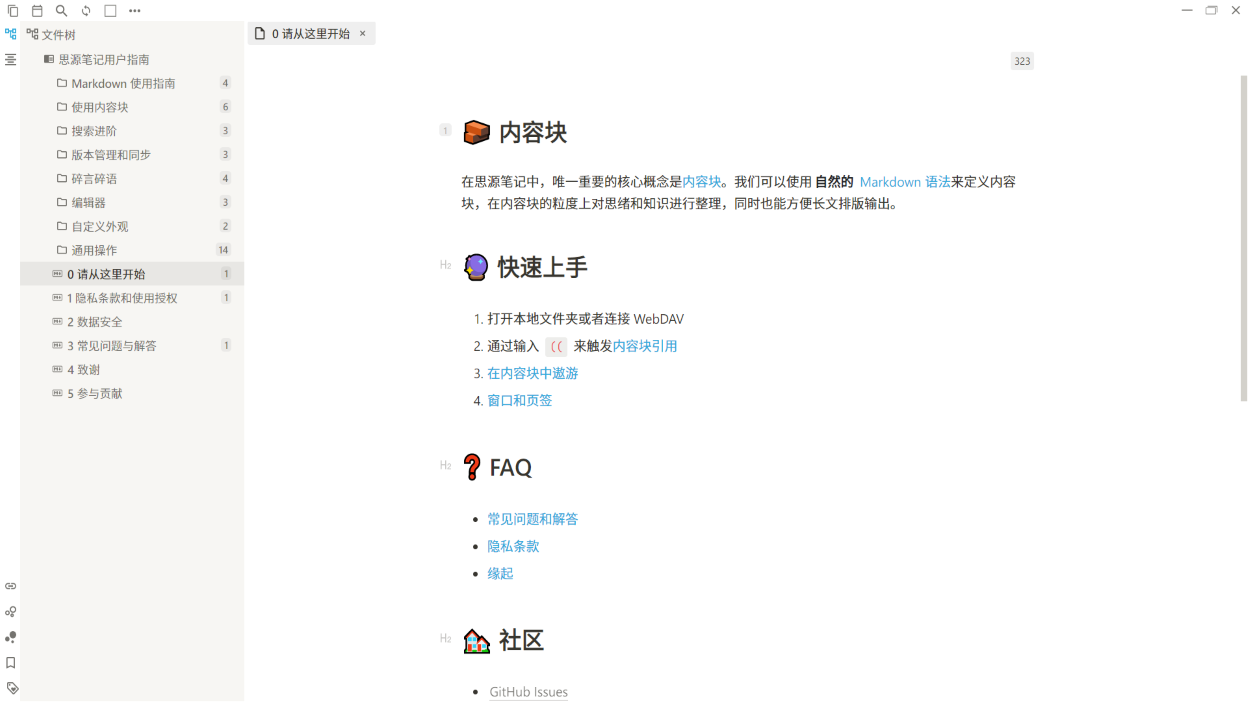
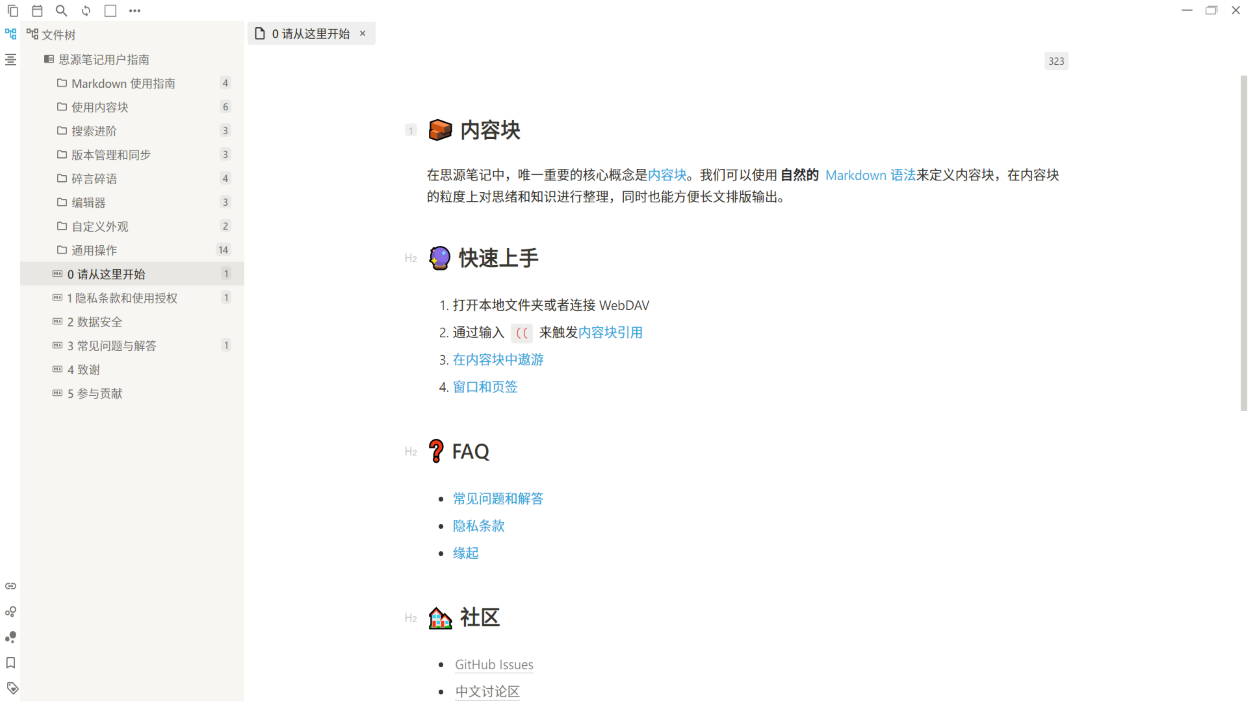
0.7.5 update

diff --git a/theme.css b/theme.css
@@ -488,6 +488,7 @@ span[data-type="counter"]:active,
   margin-bottom: 20px;
 }
 
+
 .vditor-ir ul p,
 .vditor-ir ol p {
   margin-bottom: 0 !important;
@@ -702,15 +703,7 @@ span[data-type="counter"]:active,
 }
 
 /* 标题块 */
-/* .vditor-ir h1,
-.vditor-ir h2,
-.vditor-ir h3,
-.vditor-ir h4,
-.vditor-ir h5,
-.vditor-ir h6{
-  padding: 3px 0;
-}  */
-
+/* 
 .vditor-ir h1 {
   font-size: 1.875em;
   border: none;
@@ -741,8 +734,8 @@ span[data-type="counter"]:active,
 .vditor-ir h6 {
   font-size: 1.25em;
   margin-bottom: 4px;
-}
-*/
+} */
+
 
 /* 列表块中的标题块样式 */
 .vditor-ir ul h1,

diff --git a/README.md b/README.md
@@ -17,7 +17,7 @@
 
 ## 历史版本
 
-### 0.7.4
+### 0.7.5
 
 - 因版权顾虑去除苹方字体，换回思源黑体，且西文字体改用Segoe UI
 - 更换标签的底色、高度和字体颜色
@@ -28,7 +28,6 @@
 - 将编辑器页签和侧边栏页签的字重调高
 - 去除代码块的边框，更换底色，并增加代码块的外边距
 - 调整部分块标识的位置
-- 调整标题块的外下边距、字重和字号
 - 减小任务列表按钮的字号，并提高高度
 
 ### 0.6.3
